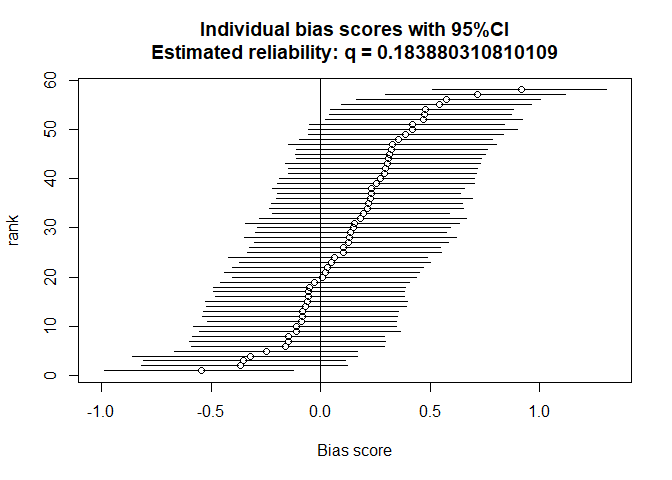
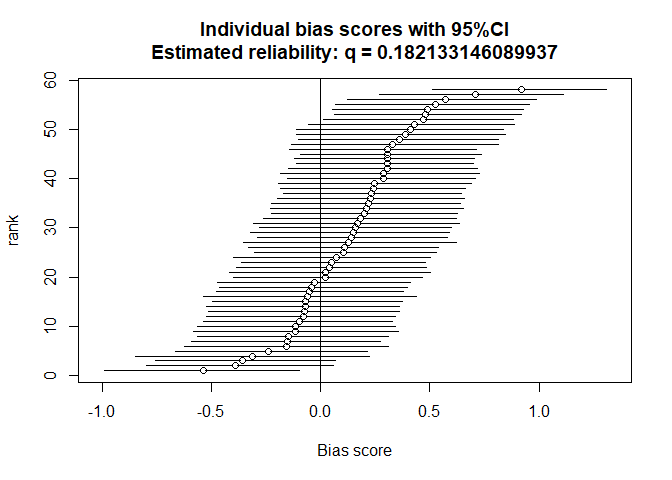
updated manual

diff --git a/README.md b/README.md
@@ -1,5 +1,5 @@
 
-<!-- This document is generated from README.Rmd - edit that file, not this one -->
+<!-- header -->
 
 # AATtools <img src="man/figures/logo.png" align="right" />
 
@@ -71,8 +71,8 @@ print(split)
 ```
 
     ## 
-    ## r (58) = 0.52, p = 2.14e-06, 95%CI = [0.39, 0.65]
-    ## Spearman-Brown-corrected r (58) = 0.68, p = 2.51e-13
+    ## r (58) = 0.52, p = 1.58e-06, 95%CI = [0.38, 0.66]
+    ## Spearman-Brown-corrected r (58) = 0.69, p = 1.42e-13
 
 Alternatively, you can use `q_reliability` to compute an exact
 reliability score for your data.
@@ -149,9 +149,9 @@ print(boot)
 ```
 
     ## Bootstrapped bias scores and confidence intervals
-    ## Mean bias score: 0.1373764
-    ## Mean confidence interval: 0.8843781
-    ## reliability: q = 0.1373764
+    ## Mean bias score: 0.1390729
+    ## Mean confidence interval: 0.8823275
+    ## reliability: q = 0.1390729
     ## Number of iterations: 1000
 
 ``` r
